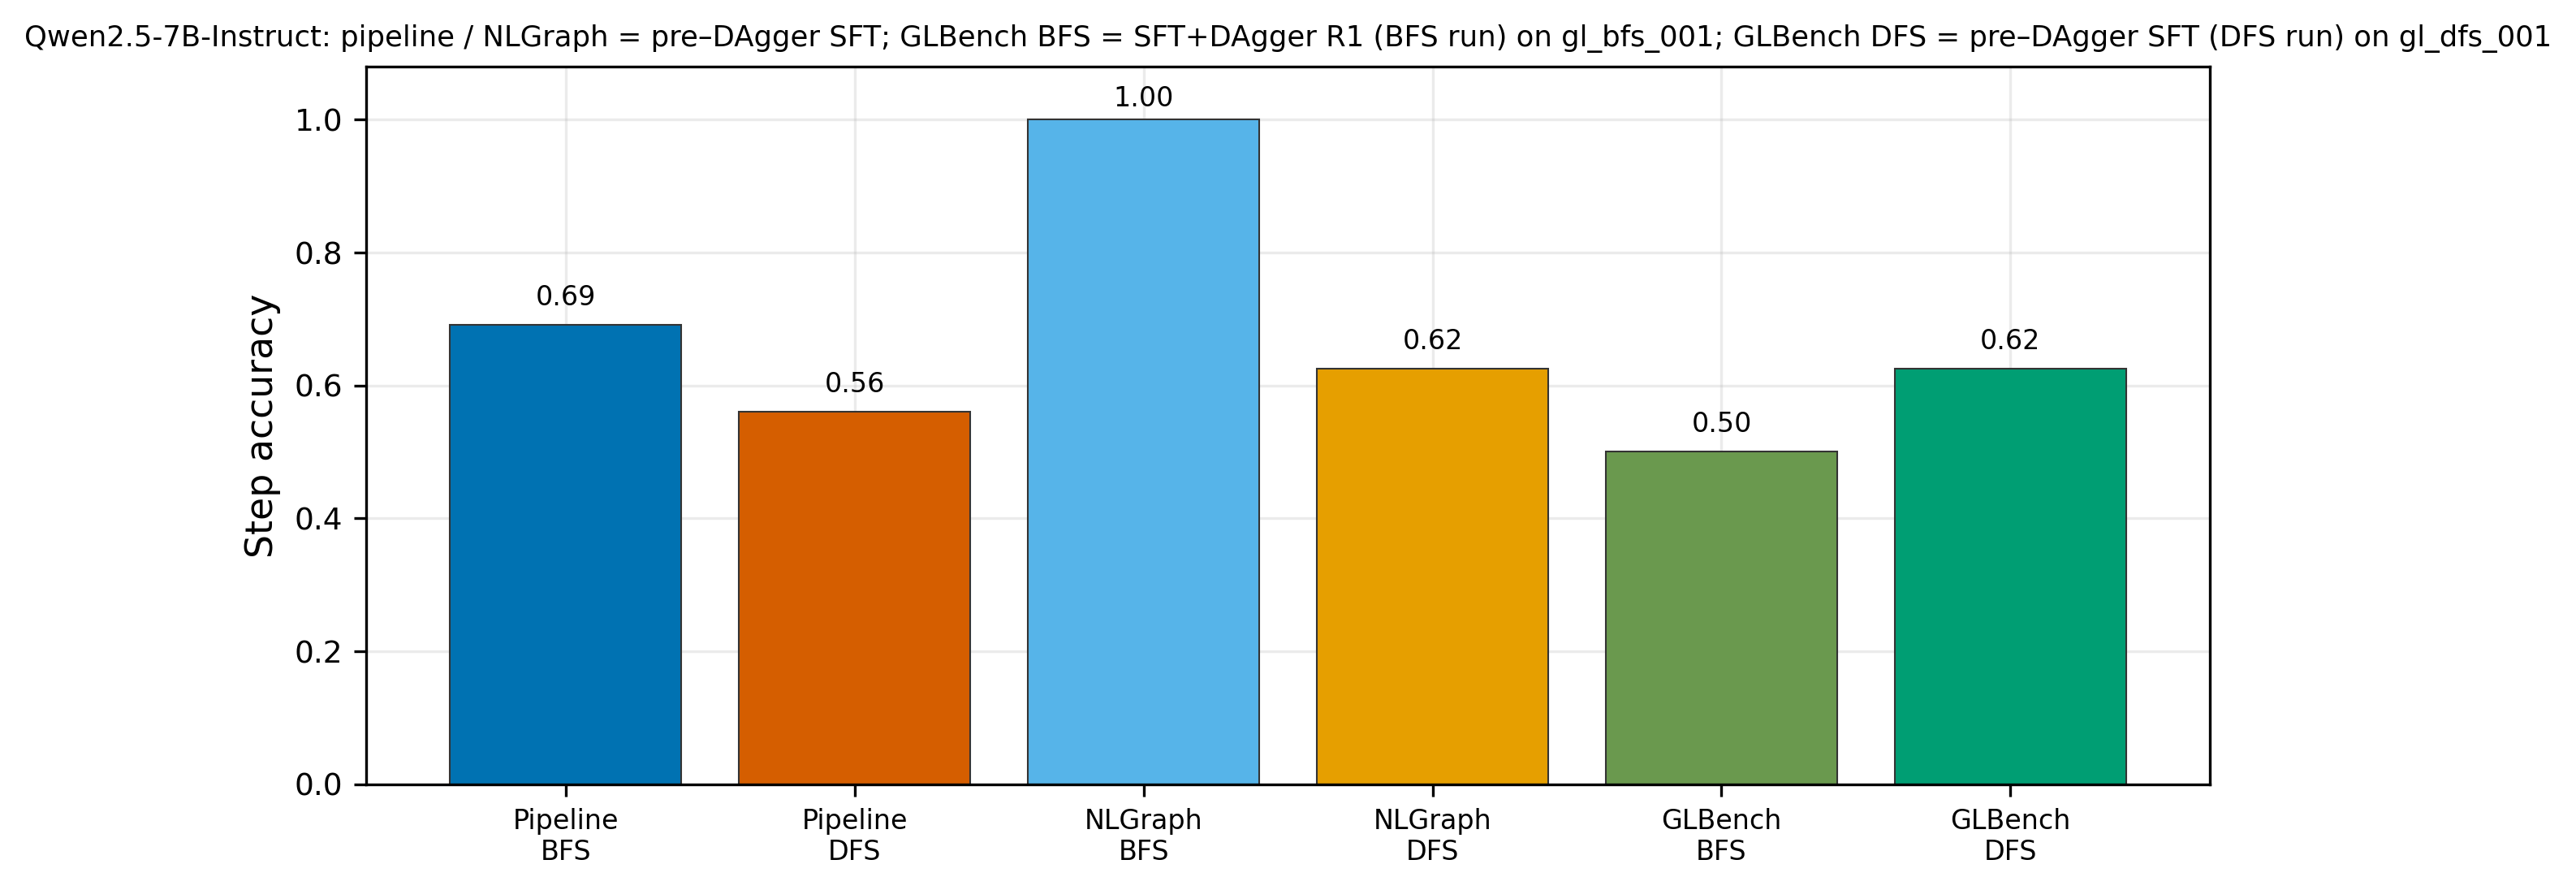
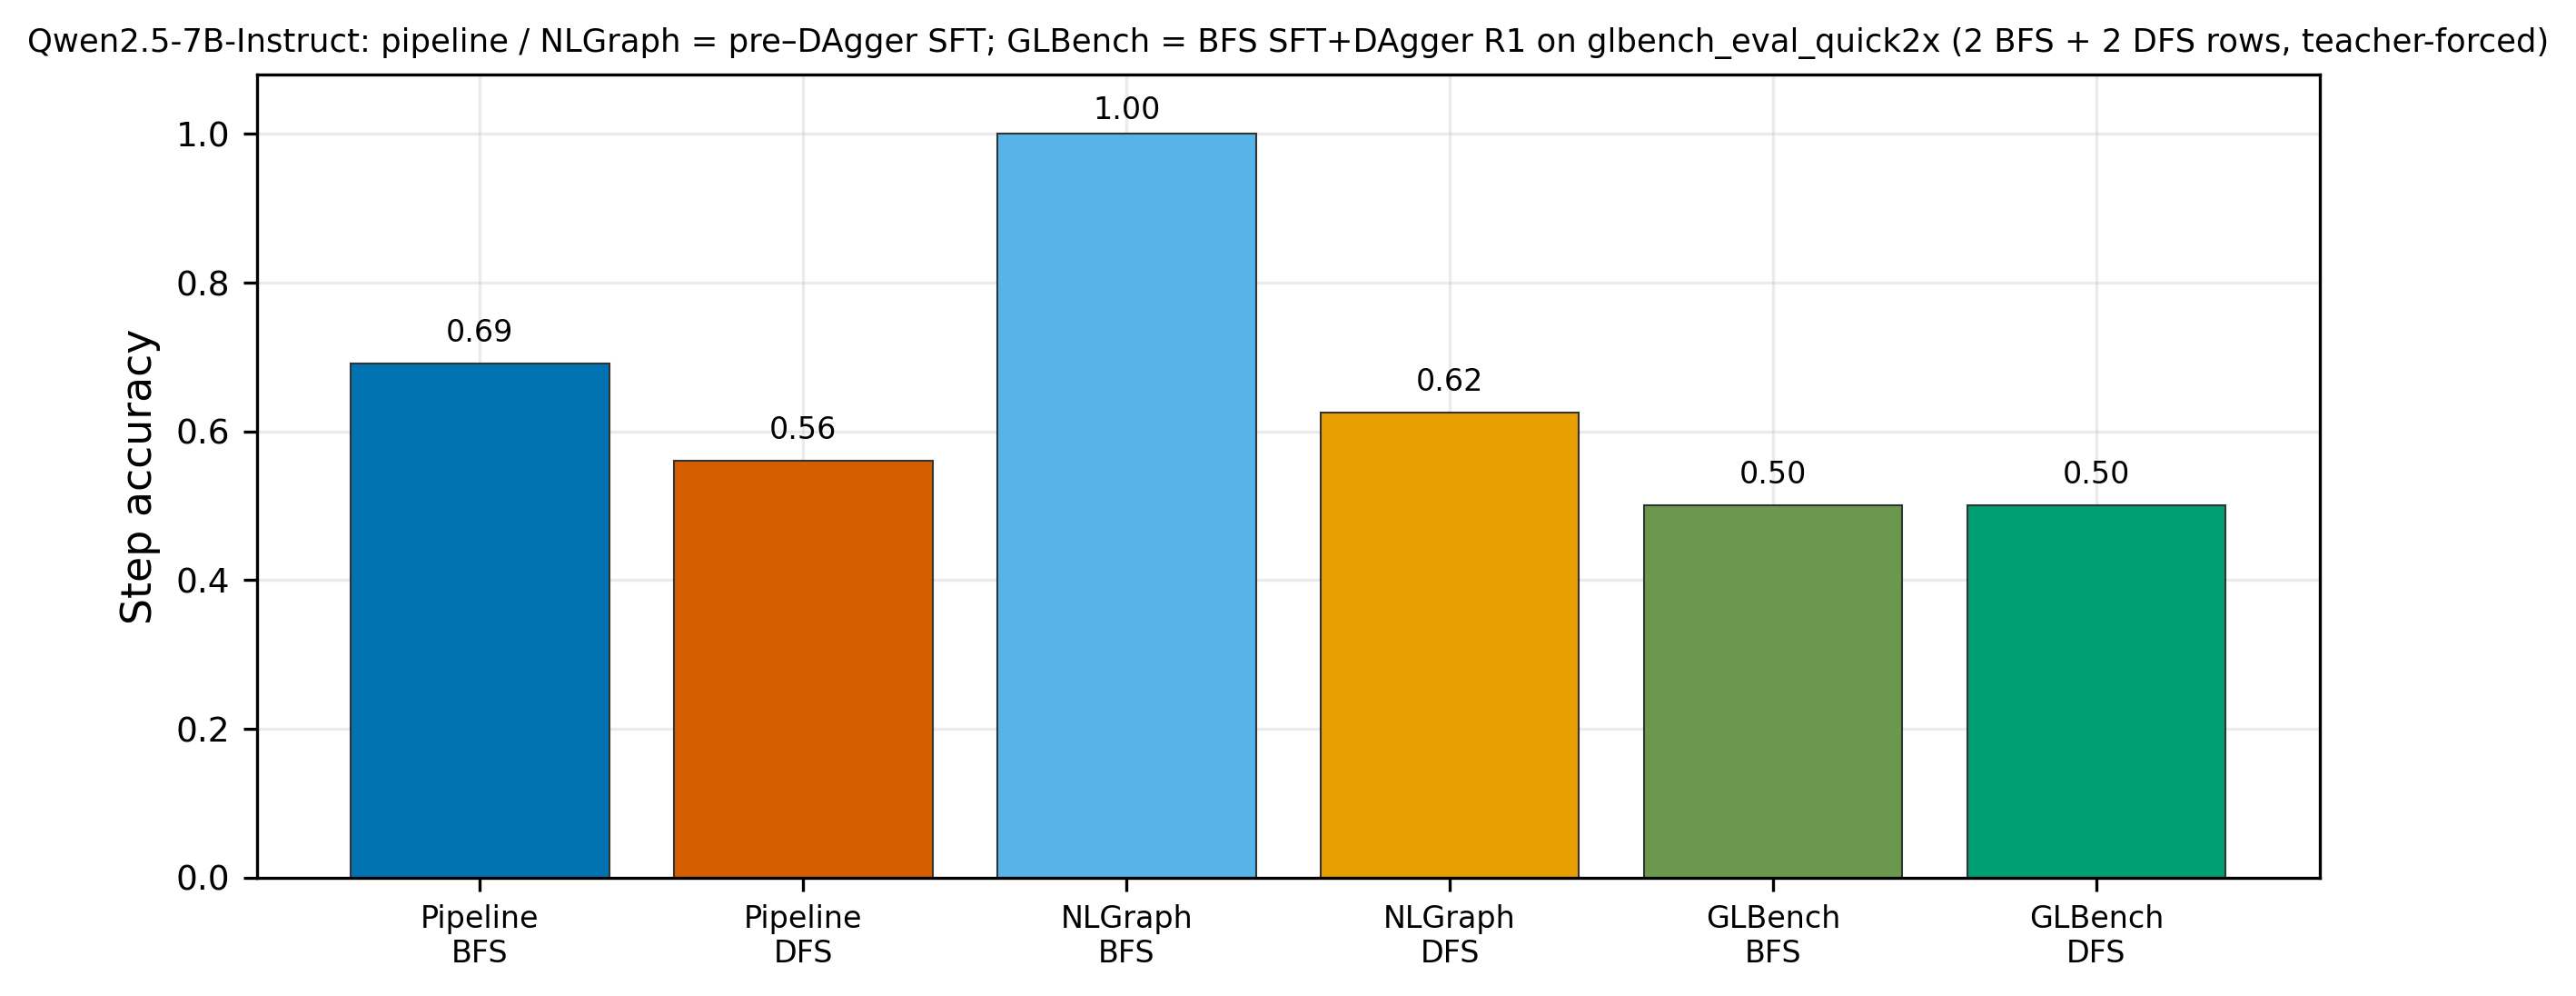
Paper+figures: GLBench from glbench_quick_run (quick2x); refresh Overleaf zip

diff --git a/plots/paper_r1_n10_figures.py b/plots/paper_r1_n10_figures.py
@@ -31,7 +31,21 @@ def _save_both(fig, base: Path) -> None:
         print(f"Wrote {p}")
 
 
-def fig_step_accuracy_bundle(*, root: Path, out_base: Path) -> None:
+def _resolve_glbench_quick_dir(root: Path, explicit: Path | None) -> Path | None:
+    """Directory with ``glbench_{bfs,dfs}_operation_accuracy.json`` from ``run_glbench_quick.sh``."""
+    if explicit is not None:
+        p = explicit if explicit.is_absolute() else (root / explicit)
+        return p if p.is_dir() else None
+    candidates = sorted(root.glob("glbench_quick_run_*"))
+    return candidates[-1] if candidates else None
+
+
+def fig_step_accuracy_bundle(
+    *,
+    root: Path,
+    out_base: Path,
+    glbench_quick_dir: Path | None = None,
+) -> None:
     import matplotlib.pyplot as plt
 
     from plots.style import apply_paper_style
@@ -46,10 +60,16 @@ def fig_step_accuracy_bundle(*, root: Path, out_base: Path) -> None:
     main_d = _step_acc(_load_json(dfs / f"metrics_{tag_d}.json"))
     nl_b = _step_acc(_load_json(bfs / f"nlgraph_{tag_b}_operation_accuracy.json"))
     nl_d = _step_acc(_load_json(dfs / f"nlgraph_{tag_d}_operation_accuracy.json"))
-    gl_path_b = bfs / f"glbench_{tag_b}_operation_accuracy.json"
-    gl_path_d = dfs / f"glbench_{tag_d}_operation_accuracy.json"
-    gl_b = _step_acc(_load_json(gl_path_b)) if gl_path_b.is_file() else float("nan")
-    gl_d = _step_acc(_load_json(gl_path_d)) if gl_path_d.is_file() else float("nan")
+    gq = _resolve_glbench_quick_dir(root, glbench_quick_dir)
+    if gq and (gq / "glbench_bfs_operation_accuracy.json").is_file():
+        gl_b = _step_acc(_load_json(gq / "glbench_bfs_operation_accuracy.json"))
+        gl_d = _step_acc(_load_json(gq / "glbench_dfs_operation_accuracy.json"))
+        print(f"[fig] GLBench bars from {gq.name} (quick2x / run_glbench_quick.sh)")
+    else:
+        gl_path_b = bfs / f"glbench_{tag_b}_operation_accuracy.json"
+        gl_path_d = dfs / f"glbench_{tag_d}_operation_accuracy.json"
+        gl_b = _step_acc(_load_json(gl_path_b)) if gl_path_b.is_file() else float("nan")
+        gl_d = _step_acc(_load_json(gl_path_d)) if gl_path_d.is_file() else float("nan")
 
     labels = [
         "Pipeline\nBFS",
@@ -77,8 +97,7 @@ def fig_step_accuracy_bundle(*, root: Path, out_base: Path) -> None:
     ax.set_ylabel("Step accuracy")
     ax.set_title(
         "Qwen2.5-7B-Instruct: pipeline / NLGraph = pre–DAgger SFT; "
-        "GLBench BFS = SFT+DAgger R1 (BFS run) on gl_bfs_001; "
-        "GLBench DFS = pre–DAgger SFT (DFS run) on gl_dfs_001",
+        "GLBench = BFS SFT+DAgger R1 on glbench_eval_quick2x (2 BFS + 2 DFS rows, teacher-forced)",
         fontsize=8.5,
     )
     fig.tight_layout()
@@ -101,6 +120,13 @@ def main() -> None:
         help="Root with bfs_pre_sft/ and dfs_pre_sft/",
     )
     ap.add_argument("--out-dir", type=Path, default=Path("paper/figures/r1_n10_qwen"))
+    ap.add_argument(
+        "--glbench-quick-dir",
+        type=Path,
+        default=None,
+        help="Subdir of metrics-root with glbench_*_operation_accuracy.json "
+        "(default: latest glbench_quick_run_*).",
+    )
     args = ap.parse_args()
 
     root = args.metrics_root.resolve()
@@ -108,7 +134,7 @@ def main() -> None:
     if not (root / "bfs_pre_sft").is_dir():
         raise FileNotFoundError(f"Missing {root / 'bfs_pre_sft'}")
 
-    fig_step_accuracy_bundle(root=root, out_base=out)
+    fig_step_accuracy_bundle(root=root, out_base=out, glbench_quick_dir=args.glbench_quick_dir)
 
     tag_b = "bfs_erdos_renyi_n10_c100_s100"
     tag_d = "dfs_erdos_renyi_n10_c100_s100"

diff --git a/paper/FinalReport.tex b/paper/FinalReport.tex
@@ -227,19 +227,18 @@ The current report presents the strongest available committed artifacts (baselin
 \section{Results}
 \subsection{Qwen2.5-7B SFT snapshot (committed n=10 metrics)}
 This section uses JSON artifacts checked in under \texttt{paper/r1\_n10\_metrics/}: Erd\H{o}s--R\'enyi graphs with $n{=}10$, count 100, seed 100 (\texttt{*\_n10\_c100\_s100}).
-Unless noted, pipeline and NLGraph numbers are after SFT and \emph{before} the first DAgger recovery fine-tune (``pre--round-1 DAgger''); the GLBench BFS bar is an exception and uses the BFS-run SFT+DAgger R1 stack (Figure~\ref{fig:r1-step}).
-Pipeline inference uses 100 graphs; bundled NLGraph/GLBench adapter scores use the small evaluation shards shipped with the repository (often $n_{\mathrm{samples}}{=}1$), so benchmark bars should be read as sanity checks, not large-scale leaderboard numbers.
+Unless noted, pipeline and NLGraph numbers are after SFT and \emph{before} the first DAgger recovery fine-tune (``pre--round-1 DAgger'').
+\textbf{GLBench} bars in Figure~\ref{fig:r1-step} instead use the Rivanna \texttt{run\_glbench\_quick.sh} snapshot under \texttt{paper/r1\_n10\_metrics/glbench\_quick\_run\_20260505\_205154/}: BFS-run SFT + DAgger R1, bundled \texttt{glbench\_eval\_quick2x.json} (two duplicated BFS rows and two duplicated DFS rows; $n_{\mathrm{samples}}{=}2$ per algorithm; teacher-forced), yielding 0.50 step accuracy on both BFS and DFS GLBench aggregates.
+Pipeline inference uses 100 graphs; NLGraph uses $n_{\mathrm{samples}}{=}1$ shards in the committed JSON.
 
 Figure~\ref{fig:r1-step} compares main-task step accuracy with adapter scores side-by-side.
 BFS reaches higher pipeline step accuracy than DFS on this split (0.69 vs.\ 0.56).
-\textbf{GLBench BFS} is model-evaluated on \texttt{gl\_bfs\_001} using the BFS-run SFT + DAgger R1 stack (\texttt{scripts/run\_glbench\_quick.sh}; teacher-forced, eight gold steps), yielding 0.50 step accuracy in the checked-in snapshot---while pipeline and NLGraph bars remain \emph{pre--DAgger} SFT.
-\textbf{GLBench DFS} is model-evaluated with the DFS SFT adapter only (pre--DAgger): 0.625 on eight steps.
-The same BFS+DAgger stack achieves 0.50 on \texttt{gl\_dfs\_001} if evaluated for curiosity, but Figure~\ref{fig:r1-step} follows the DFS-trained checkpoint for the DFS GLBench bar.
+The GLBench bars are \emph{not} from the DFS SFT checkpoint: both are evaluated with the same BFS+DAgger stack for fair cross-task comparison on the small GLBench shard.
 
 \begin{figure}[t]
   \centering
   \includegraphics[width=\linewidth]{figures/r1_n10_qwen/fig_r1_step_accuracy_main_and_benchmarks.pdf}
-  \caption{Pipeline and NLGraph use pre--DAgger SFT; GLBench BFS uses BFS SFT+DAgger R1 on \texttt{gl\_bfs\_001}; GLBench DFS uses pre--DAgger DFS SFT on \texttt{gl\_dfs\_001} (bundled shards, $n_{\mathrm{samples}}{=}1$).}
+  \caption{Pipeline and NLGraph: pre--DAgger SFT. GLBench: BFS SFT+DAgger R1 on \texttt{data/benchmarks/glbench\_eval\_quick2x.json} (2$\times$ BFS + 2$\times$ DFS rows; $n_{\mathrm{samples}}{=}2$ per algorithm).}
   \label{fig:r1-step}
 \end{figure}
 
@@ -344,14 +343,14 @@ This pattern supports the broader error-collection behavior in \texttt{training/
 
 \begin{table*}[t]
   \centering
-  \caption{Main pipeline metrics come from \texttt{metrics\_*}; NLGraph/GLBench columns come from \texttt{nlgraph\_*\_operation\_accuracy.json} and \texttt{glbench\_*\_operation\_accuracy.json} under \texttt{paper/r1\_n10\_metrics/}. Qwen2.5-7B-Instruct with SFT adapter, pre--DAgger round~1; Erd\H{o}s--R\'enyi $n{=}10$, count 100, seed 100.}
+  \caption{Pipeline and NLGraph from \texttt{bfs\_pre\_sft/} and \texttt{dfs\_pre\_sft/}; GLBench columns from \texttt{glbench\_quick\_run\_20260505\_205154/} (same BFS+DAgger stack on quick2x shards---not the pre--DAgger checkpoints in the pipeline columns). Qwen2.5-7B-Instruct; Erd\H{o}s--R\'enyi $n{=}10$, count 100, seed 100 for pipeline.}
   \label{tab:core}
   \begin{tabular}{lcccccc}
     \toprule
     Setting & Pipe.\ step acc & Pipe.\ fail.\ rate & Mean 1st err.\ step & NLGraph acc & GLBench acc & Artifact prefix \\
     \midrule
     BFS & 0.691 & 0.309 & 8.26 & 1.000\textsuperscript{*} & 0.500\textsuperscript{$\dagger$} & \texttt{bfs\_pre\_sft/} \\
-    DFS & 0.560 & 0.440 & 2.12 & 1.000\textsuperscript{*} & 0.625\textsuperscript{*} & \texttt{dfs\_pre\_sft/} \\
+    DFS & 0.560 & 0.440 & 2.12 & 1.000\textsuperscript{*} & 0.500\textsuperscript{$\dagger$} & \texttt{dfs\_pre\_sft/} \\
     \midrule
     \multicolumn{7}{l}{\emph{Legacy iterative runs (different tag / roots; same spirit as Figures~\ref{fig:cross-main}--\ref{fig:cross-bench}):}} \\
     BFS pre-DAgger & 0.025 & 0.975 & 1.0 & 0.250 & 0.000 & summary \\
@@ -364,8 +363,8 @@ This pattern supports the broader error-collection behavior in \texttt{training/
   \begin{minipage}{\linewidth}
   \footnotesize
   \textbf{Pipeline columns} are from \texttt{failures\_*} (\texttt{overall\_step\_accuracy}, \texttt{overall\_failure\_rate}, \texttt{mean\_first\_error\_step}) on 100 pipeline graphs per algorithm.
-  \textbf{\textsuperscript{*} NLGraph and GLBench (DFS)} use the bundled benchmark shards committed with this repo ($n_{\mathrm{samples}}{=}1$ for NLGraph and one GLBench row per algorithm in the eval JSON); treat as adapter smoke tests, not scaled benchmarks.
-  \textbf{\textsuperscript{$\dagger$} GLBench (BFS)} is model-evaluated on \texttt{gl\_bfs\_001} with the BFS-run SFT + DAgger R1 adapter stack (same setting as \texttt{scripts/run\_glbench\_quick.sh}), not the pre--DAgger SFT used for the pipeline columns in this row.
+  \textbf{\textsuperscript{*} NLGraph} uses the bundled NLGraph shard ($n_{\mathrm{samples}}{=}1$).
+  \textbf{\textsuperscript{$\dagger$} GLBench} uses \texttt{glbench\_quick\_run\_20260505\_205154/}: BFS-run SFT + DAgger R1, \texttt{glbench\_eval\_quick2x.json}, teacher-forced, $n_{\mathrm{samples}}{=}2$ per algorithm (BFS and DFS GLBench tasks both evaluated with this stack).
   \end{minipage}
 \end{table*}
 